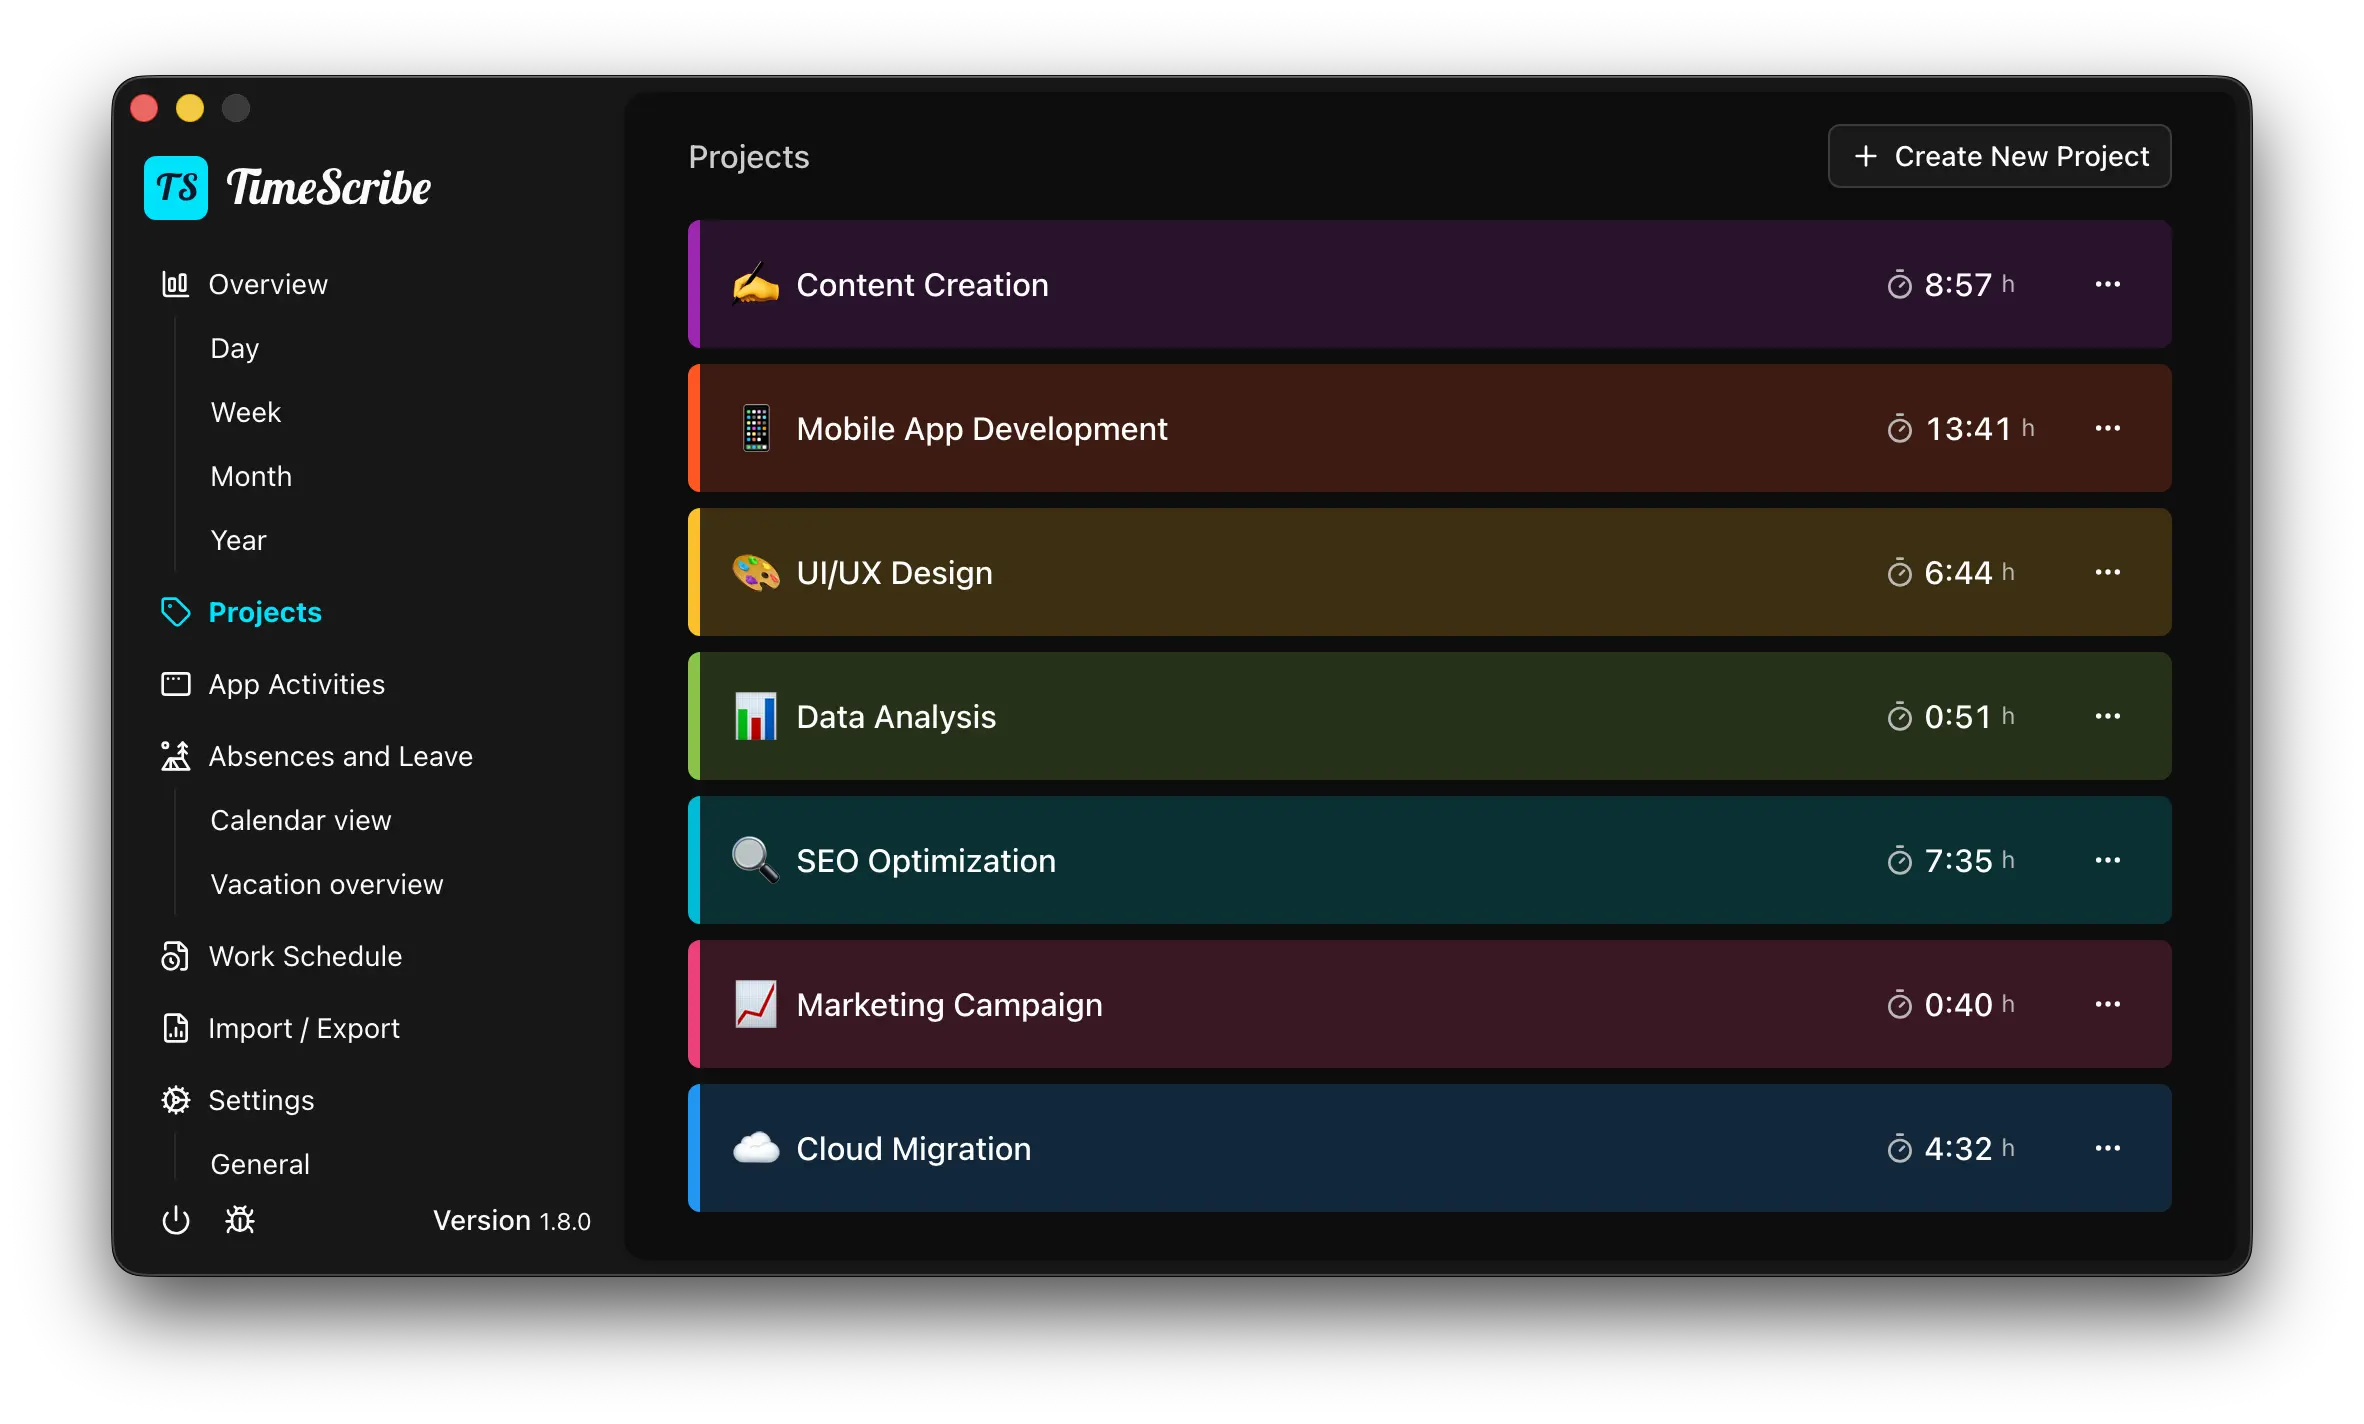
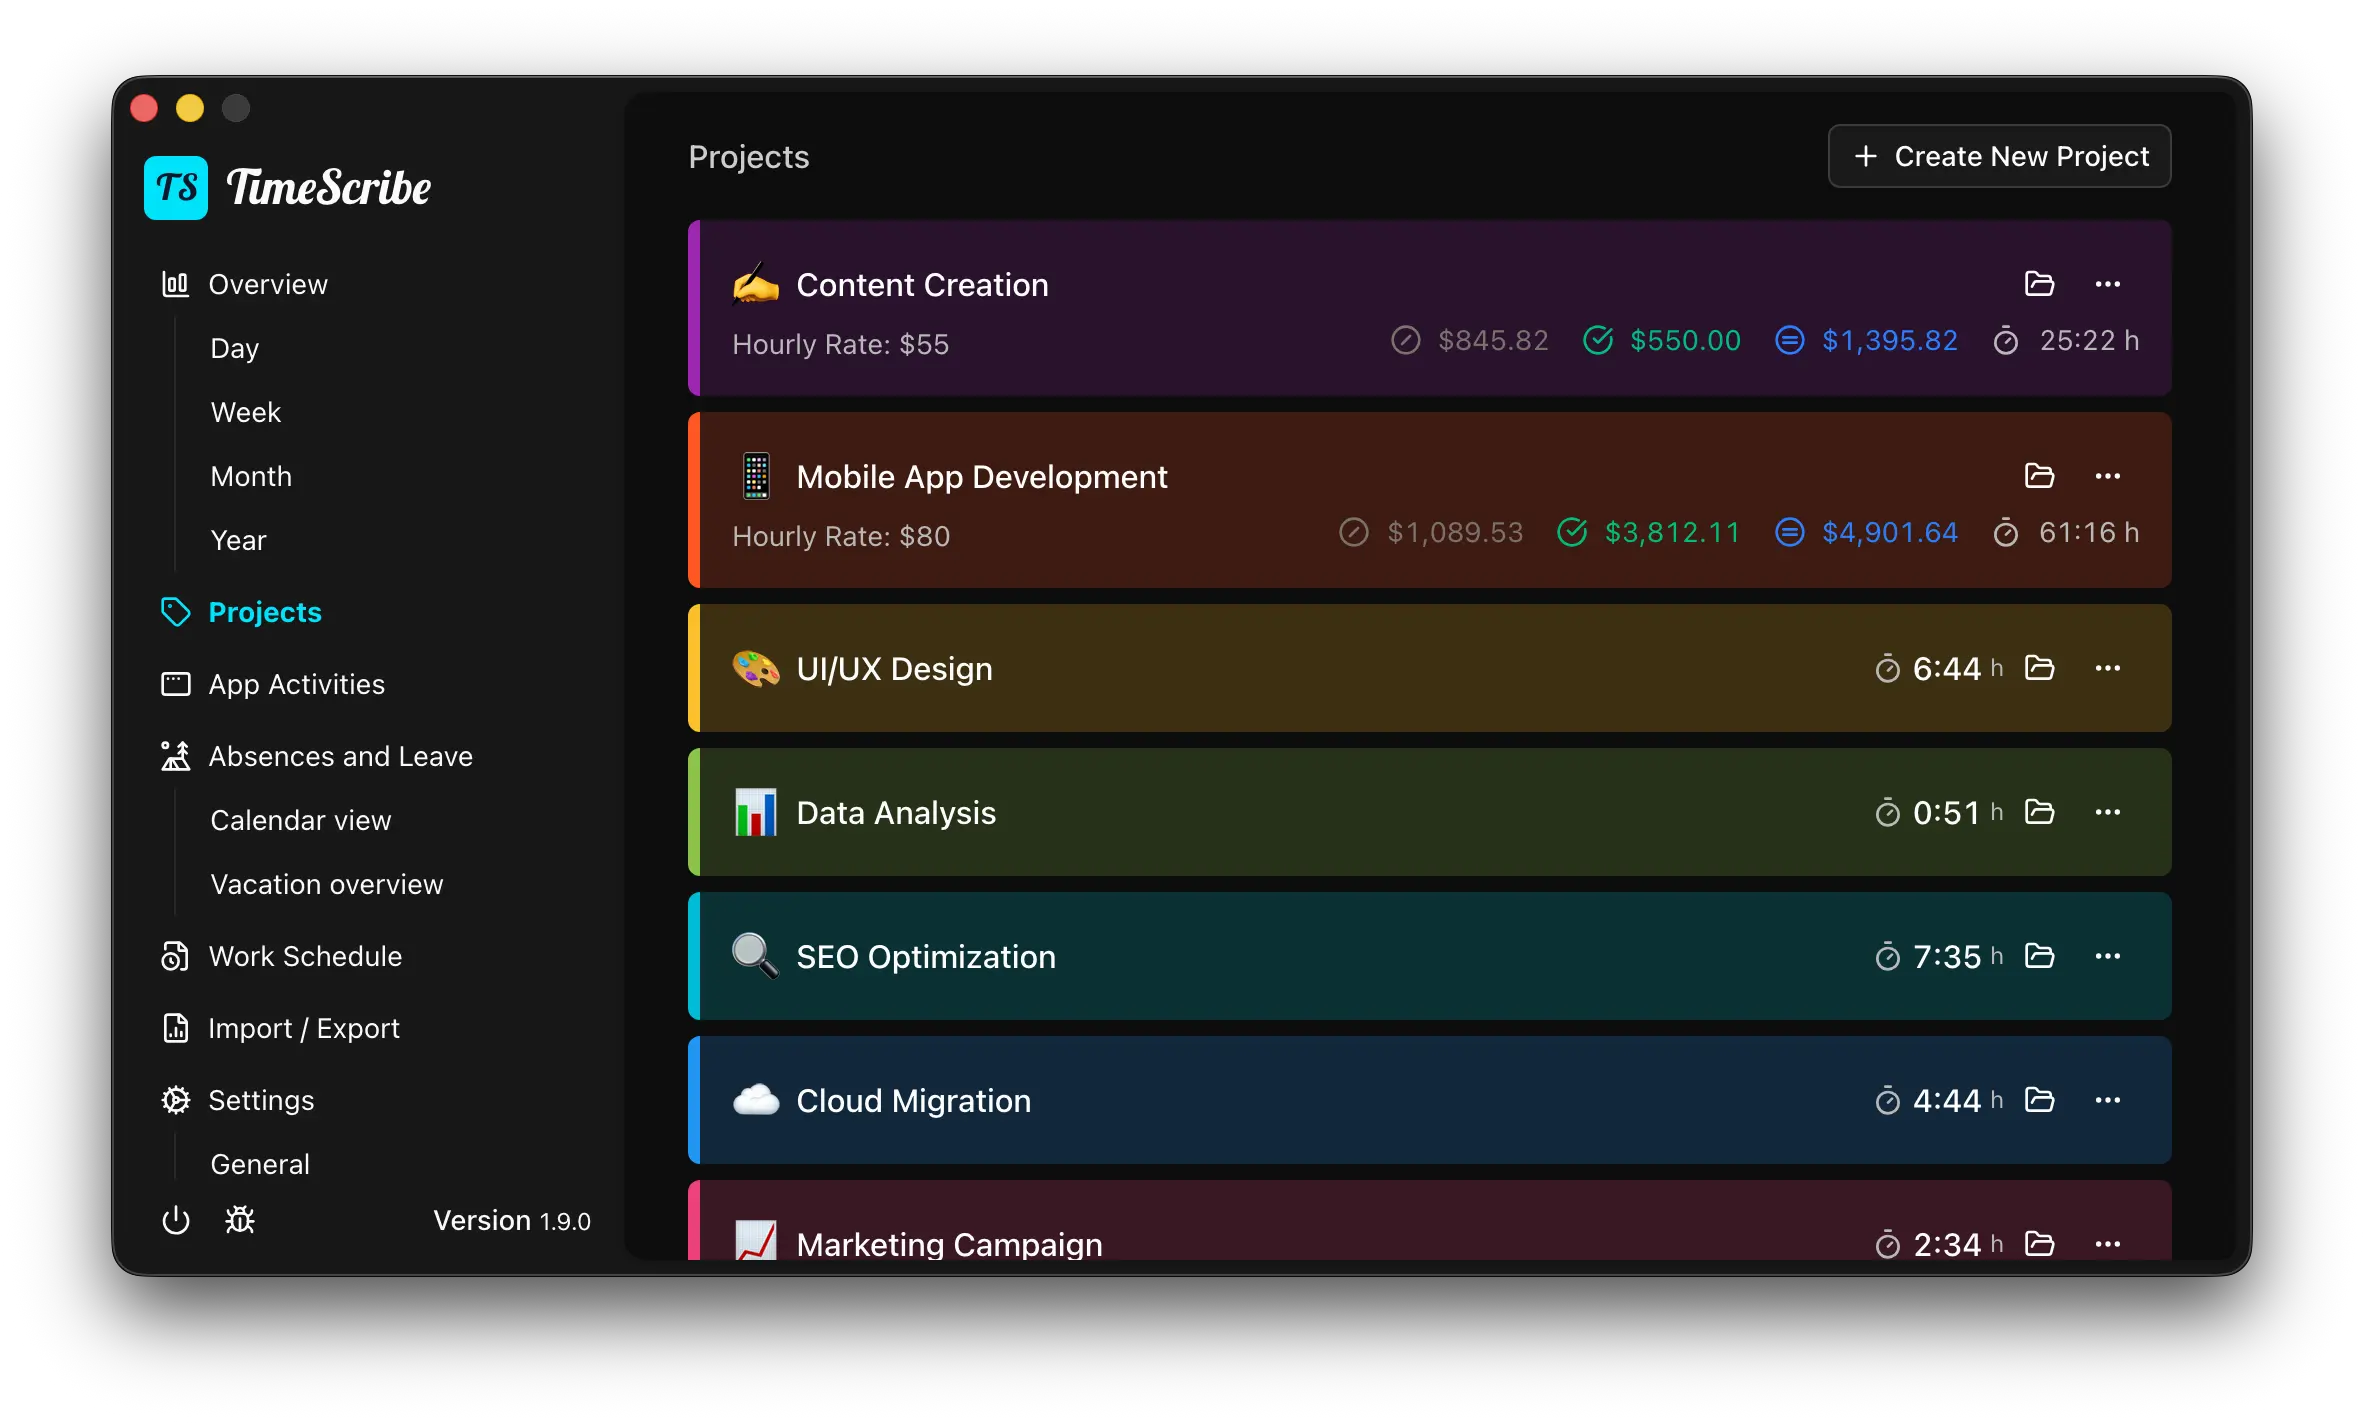
add: update README and images with project details and dark/light mode support

Changed region(s): [[0.2779, 0.1854, 0.9264, 0.8961]]

diff --git a/README.md b/README.md
@@ -161,6 +161,10 @@ php artisan native:build win
   <source media="(prefers-color-scheme: dark)" srcset="https://github.com/WINBIGFOX/Stempeluhr/blob/main/.github/images/projects_en_dark.webp?raw=true">
   <img alt="Project Tracking" src="https://github.com/WINBIGFOX/Stempeluhr/blob/main/.github/images/projects_en_light.webp?raw=true">
 </picture>
+<picture >
+  <source media="(prefers-color-scheme: dark)" srcset="https://github.com/WINBIGFOX/Stempeluhr/blob/main/.github/images/project_detail_en_dark.webp?raw=true">
+  <img alt="Project Tracking" src="https://github.com/WINBIGFOX/Stempeluhr/blob/main/.github/images/project_detail_en_light.webp?raw=true">
+</picture>
 </p>
 
 ### 🗓 Absence Planning
